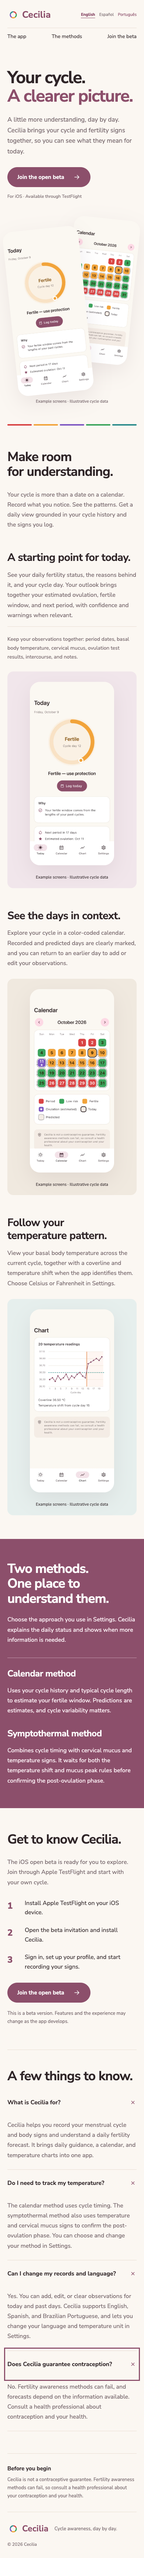
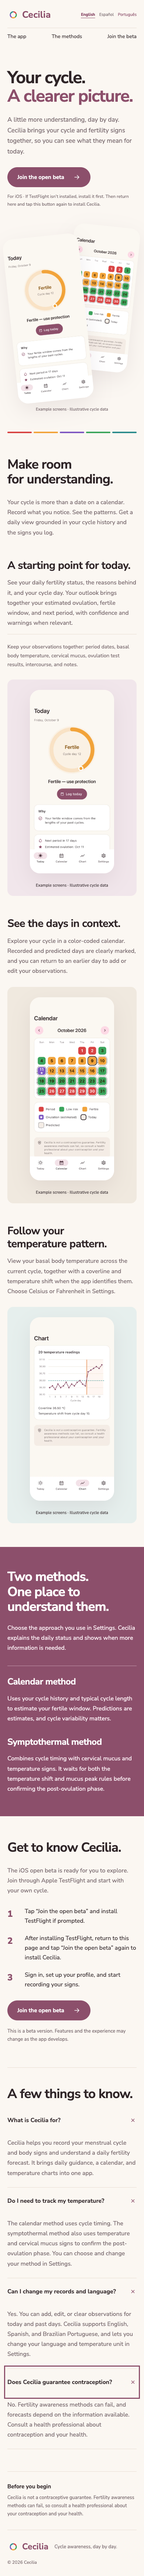
Clarify TestFlight install steps and fix Pages screenshot env
- Tell visitors to install TestFlight if needed, return to the page, and tap the beta action again, in English, Spanish, and Portuguese.
- Set ASTRO_SCREENSHOT_DIR on the generated-test step because runner.temp is unavailable in job-level env.
- Refresh the twelve locale captures and the validation record.

diff --git a/logic/content/pt.ts b/logic/content/pt.ts
@@ -17,7 +17,7 @@ export const pt: ProductContent = {
     second: 'Mais clareza, a cada dia.',
     body: 'Um pouco mais de compreensão, dia após dia. A Cecilia reúne seu ciclo e seus sinais de fertilidade para ajudar você a entender o que eles significam hoje.',
     action: 'Participe da beta aberta',
-    note: 'Para iOS · Disponível pelo TestFlight',
+    note: 'Para iOS · Se você ainda não tem o TestFlight, instale-o primeiro. Depois, volte aqui e toque neste botão novamente para instalar a Cecilia.',
   },
   example: 'Telas de exemplo · Dados ilustrativos de ciclo',
   intro: {
@@ -60,8 +60,8 @@ export const pt: ProductContent = {
     title: 'Conheça a Cecilia.',
     body: 'A beta aberta para iOS está pronta para você explorar. Entre pelo Apple TestFlight e comece com o seu próprio ciclo.',
     steps: [
-      'Instale o Apple TestFlight no seu dispositivo iOS.',
-      'Abra o convite da beta e instale a Cecilia.',
+      'Toque em “Participe da beta aberta” e instale o TestFlight, se solicitado.',
+      'Após instalar o TestFlight, volte a esta página e toque em “Participe da beta aberta” novamente para instalar a Cecilia.',
       'Entre na sua conta, configure seu perfil e comece a registrar seus sinais.',
     ],
     note: 'Esta é uma versão beta. As funcionalidades e a experiência podem mudar à medida que o aplicativo evolui.',

diff --git a/logic/content/es.ts b/logic/content/es.ts
@@ -17,7 +17,7 @@ export const es: ProductContent = {
     second: 'Más claridad, cada día.',
     body: 'Un poco más de comprensión, día a día. Cecilia reúne tu ciclo y tus signos de fertilidad para ayudarte a entender lo que significan hoy.',
     action: 'Únete a la beta abierta',
-    note: 'Para iOS · Disponible en TestFlight',
+    note: 'Para iOS · Si aún no tienes TestFlight, instálalo primero. Después, vuelve aquí y toca este botón otra vez para instalar Cecilia.',
   },
   example: 'Pantallas de ejemplo · Datos ilustrativos del ciclo',
   intro: {
@@ -60,8 +60,8 @@ export const es: ProductContent = {
     title: 'Conoce a Cecilia.',
     body: 'La beta abierta para iOS está lista para explorar. Únete a través de Apple TestFlight y comienza con tu propio ciclo.',
     steps: [
-      'Instala Apple TestFlight en tu dispositivo iOS.',
-      'Abre la invitación a la beta e instala Cecilia.',
+      'Toca “Únete a la beta abierta” e instala TestFlight si se te solicita.',
+      'Después de instalar TestFlight, vuelve a esta página y toca “Únete a la beta abierta” otra vez para instalar Cecilia.',
       'Inicia sesión, configura tu perfil y empieza a registrar tus signos.',
     ],
     note: 'Esta es una versión beta. Las funciones y la experiencia pueden cambiar a medida que se desarrolla la app.',

diff --git a/logic/content/en.ts b/logic/content/en.ts
@@ -17,7 +17,7 @@ export const en: ProductContent = {
     second: 'A clearer picture.',
     body: 'A little more understanding, day by day. Cecilia brings your cycle and fertility signs together, so you can see what they mean for today.',
     action: 'Join the open beta',
-    note: 'For iOS · Available through TestFlight',
+    note: 'For iOS · If TestFlight isn’t installed, install it first. Then return here and tap this button again to install Cecilia.',
   },
   example: 'Example screens · Illustrative cycle data',
   intro: {
@@ -60,8 +60,8 @@ export const en: ProductContent = {
     title: 'Get to know Cecilia.',
     body: 'The iOS open beta is ready for you to explore. Join through Apple TestFlight and start with your own cycle.',
     steps: [
-      'Install Apple TestFlight on your iOS device.',
-      'Open the beta invitation and install Cecilia.',
+      'Tap “Join the open beta” and install TestFlight if prompted.',
+      'After installing TestFlight, return to this page and tap “Join the open beta” again to install Cecilia.',
       'Sign in, set up your profile, and start recording your signs.',
     ],
     note: 'This is a beta version. Features and the experience may change as the app develops.',

diff --git a/docs/md/VALIDATION.md b/docs/md/VALIDATION.md
@@ -7,7 +7,7 @@ Verified on October 12, 2026, using the current local production build.
 - Root workspace validation entry point `./sh/validate.sh github-pages` passed the complete gate independently of the API/database.
 - Website: 31 tests passed — 15 unit, 2 adapter integration, 4 Gherkin behavior, 9 browser, and 1 smoke.
 - Context tooling: all 18 unit tests passed. The changed lifecycle declaration has measured 100% line coverage.
-- Website production logic: measured 100% line, branch, function, and statement coverage; the complete unit suite took 271 milliseconds on the recorded final product run.
+- Website production logic: measured 100% line, branch, function, and statement coverage; the complete unit suite took 229 milliseconds on the recorded final product run.
 - Highest measured website function cyclomatic complexity: 3; the source lint gate enforces at most 6. The changed Python lifecycle declaration defines no functions; its lint complexity gate passes.
 - Formatting, ESLint, Astro type checking, static build, Gherkin ownership/parity, and dependency audit passed. npm audit reports zero vulnerabilities.
 - All three locales passed desktop 1440px and mobile 390px accessibility, keyboard, no-overflow, asset loading, and browser-runtime checks. Twelve full-page closed/expanded FAQ captures are indexed in evidence_gallery/index.html.
@@ -41,7 +41,11 @@ timeout 60s uv run --group dev pytest --cov=context_supervised_hooks.spec --cov-
 
 ## Publication status
 
-The public repository exists and GitHub Pages is configured with build_type workflow and HTTPS enforced. The authorized canonical scaffold published only its initial main commit. Later implementation changes are prepared locally; the workspace reserves later commits and pushes to the user unless explicitly authorized. No GitHub Actions deployment run or live-site verification is claimed before those changes reach main. After publication, inspect the action result and the root plus all three locale addresses at the configured Pages domain.
+The public repository exists and GitHub Pages is configured with build_type workflow and HTTPS enforced. The user published the website implementation at e033c22. Its first Actions run was rejected before jobs started because runner.temp was used in job-level env. The corrected workflow now defines the screenshot directory at step level, where that context is available. The TestFlight installation clarification is also prepared locally. Publication verification remains pending until the corrected revision reaches main and a deployment succeeds.
+
+## TestFlight instruction follow-up
+
+The helper under the primary beta action and numbered steps now explain: install TestFlight if needed, return to this page, and tap the invitation again to install Cecilia. English, Spanish, and Brazilian Portuguese were updated without changing the invitation or page structure. Root validation passed all 31 tests; twelve captures were refreshed. The initial direct test invocation omitted ASTRO_SCREENSHOT_DIR; the canonical root dispatcher supplied it and the complete rerun passed. The corrected Pages workflow also passed actionlint using `go run github.com/rhysd/actionlint/cmd/actionlint@latest .github/workflows/pages.yml`.
 
 ## Review conclusion
 
